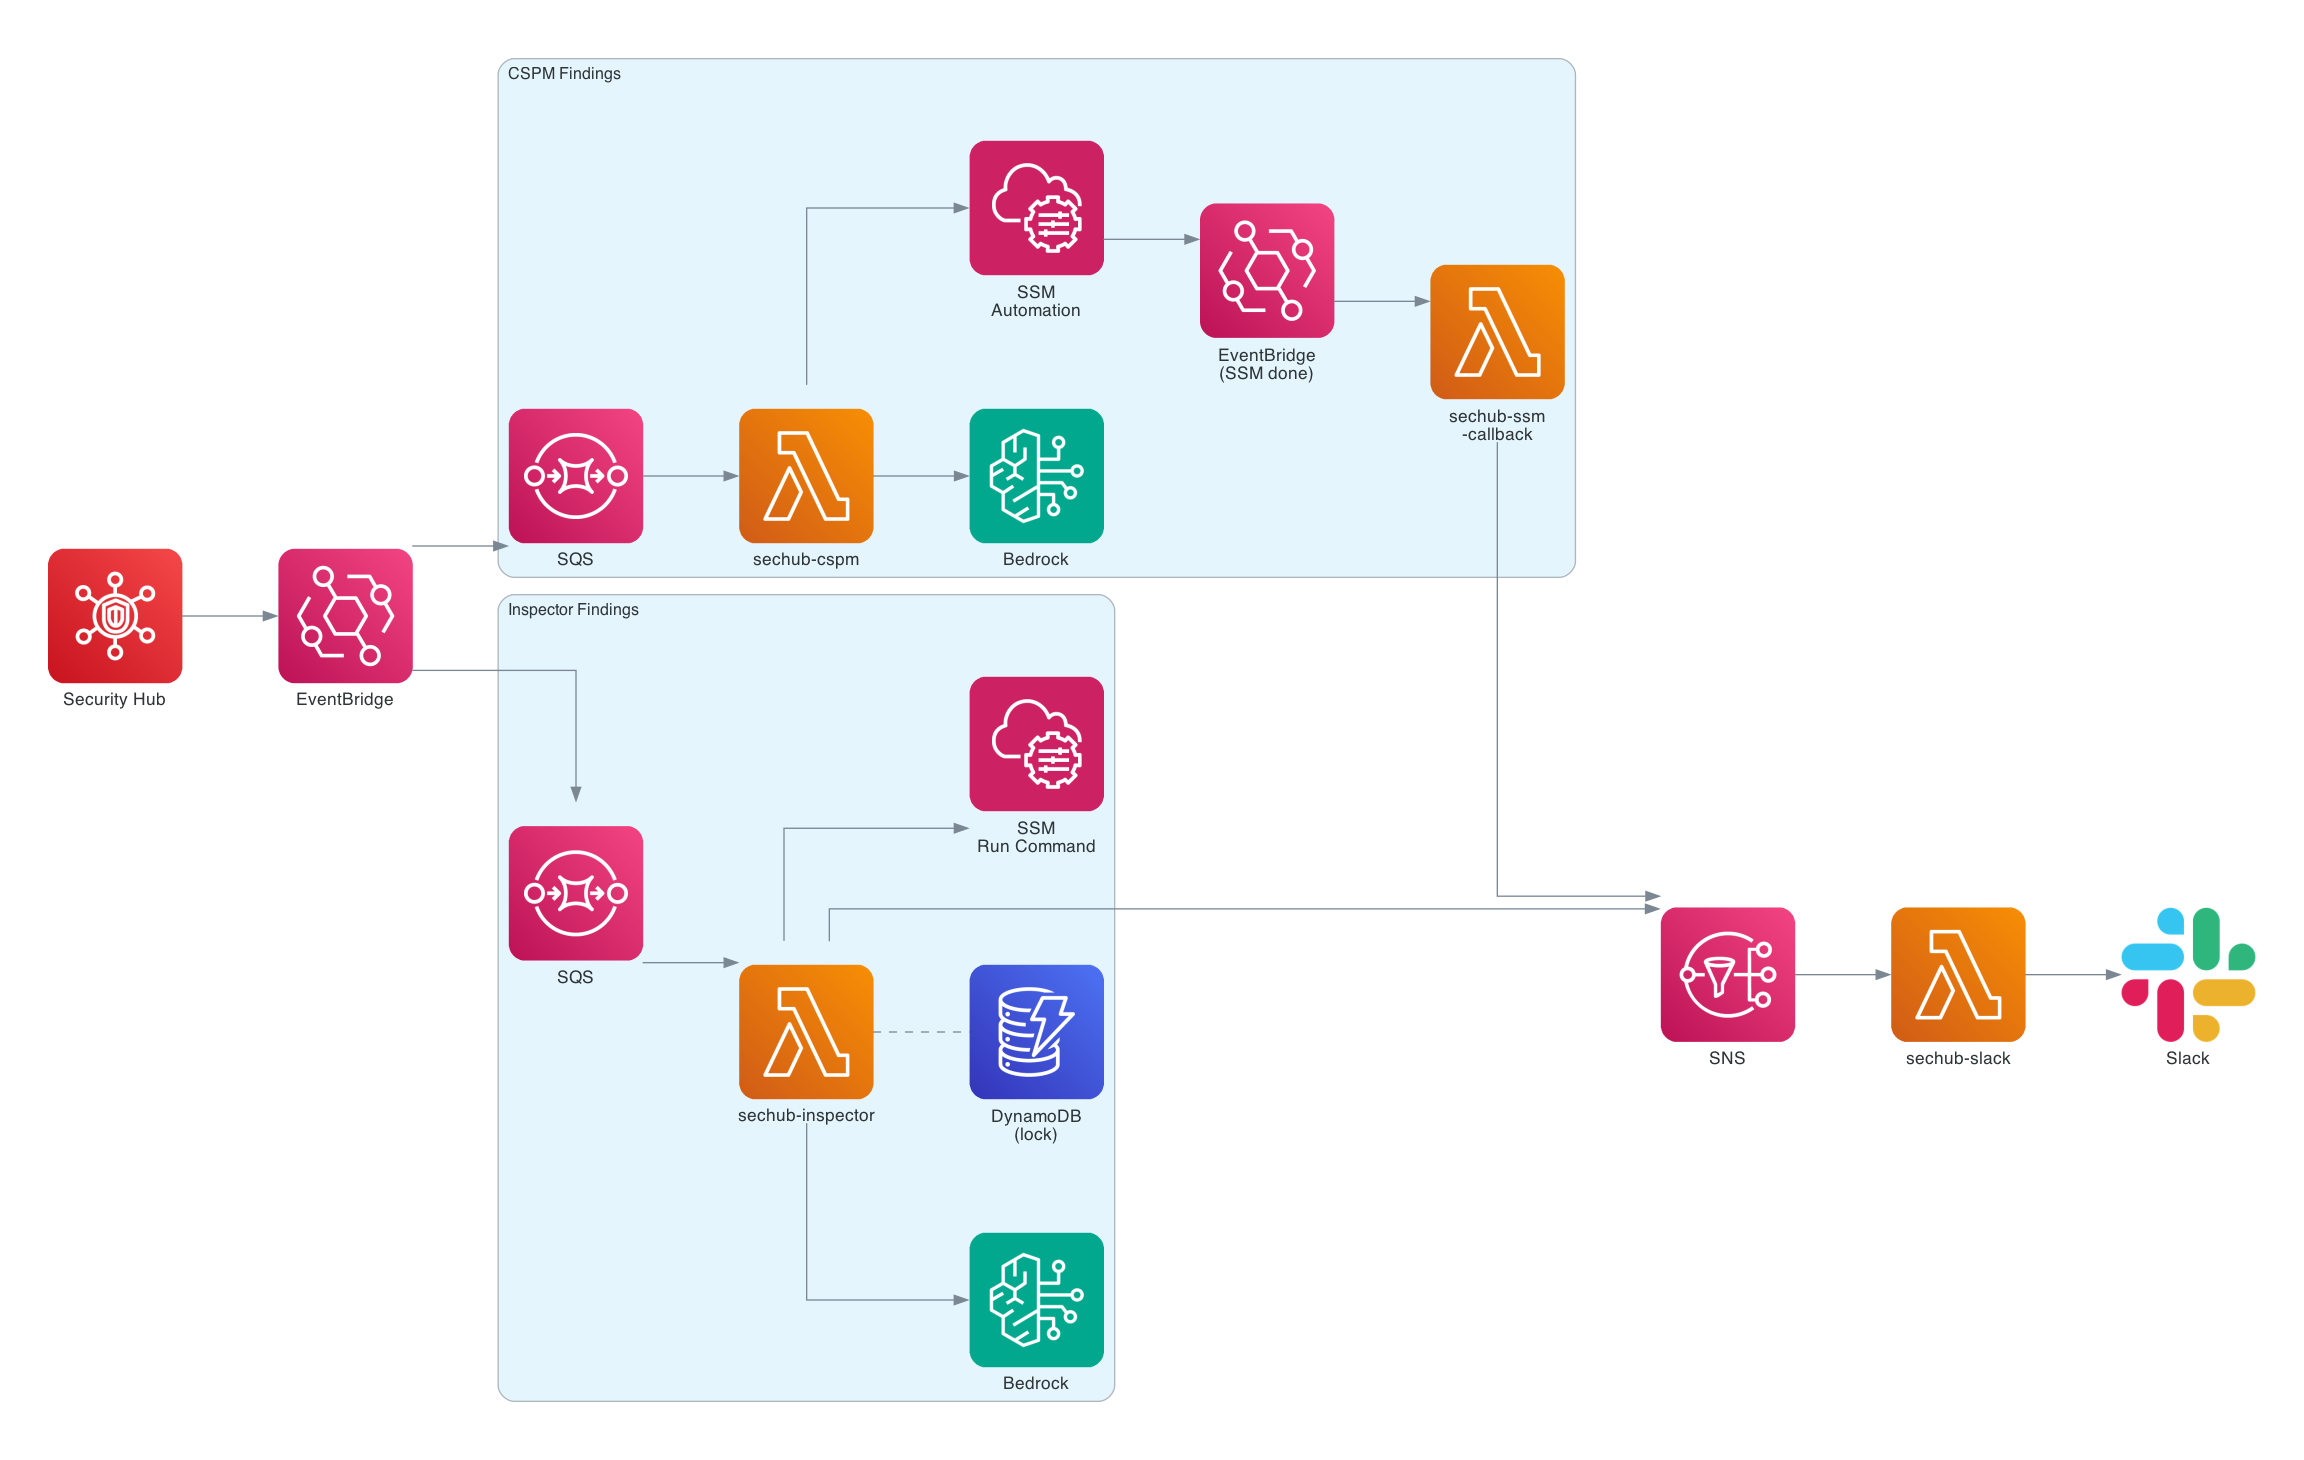
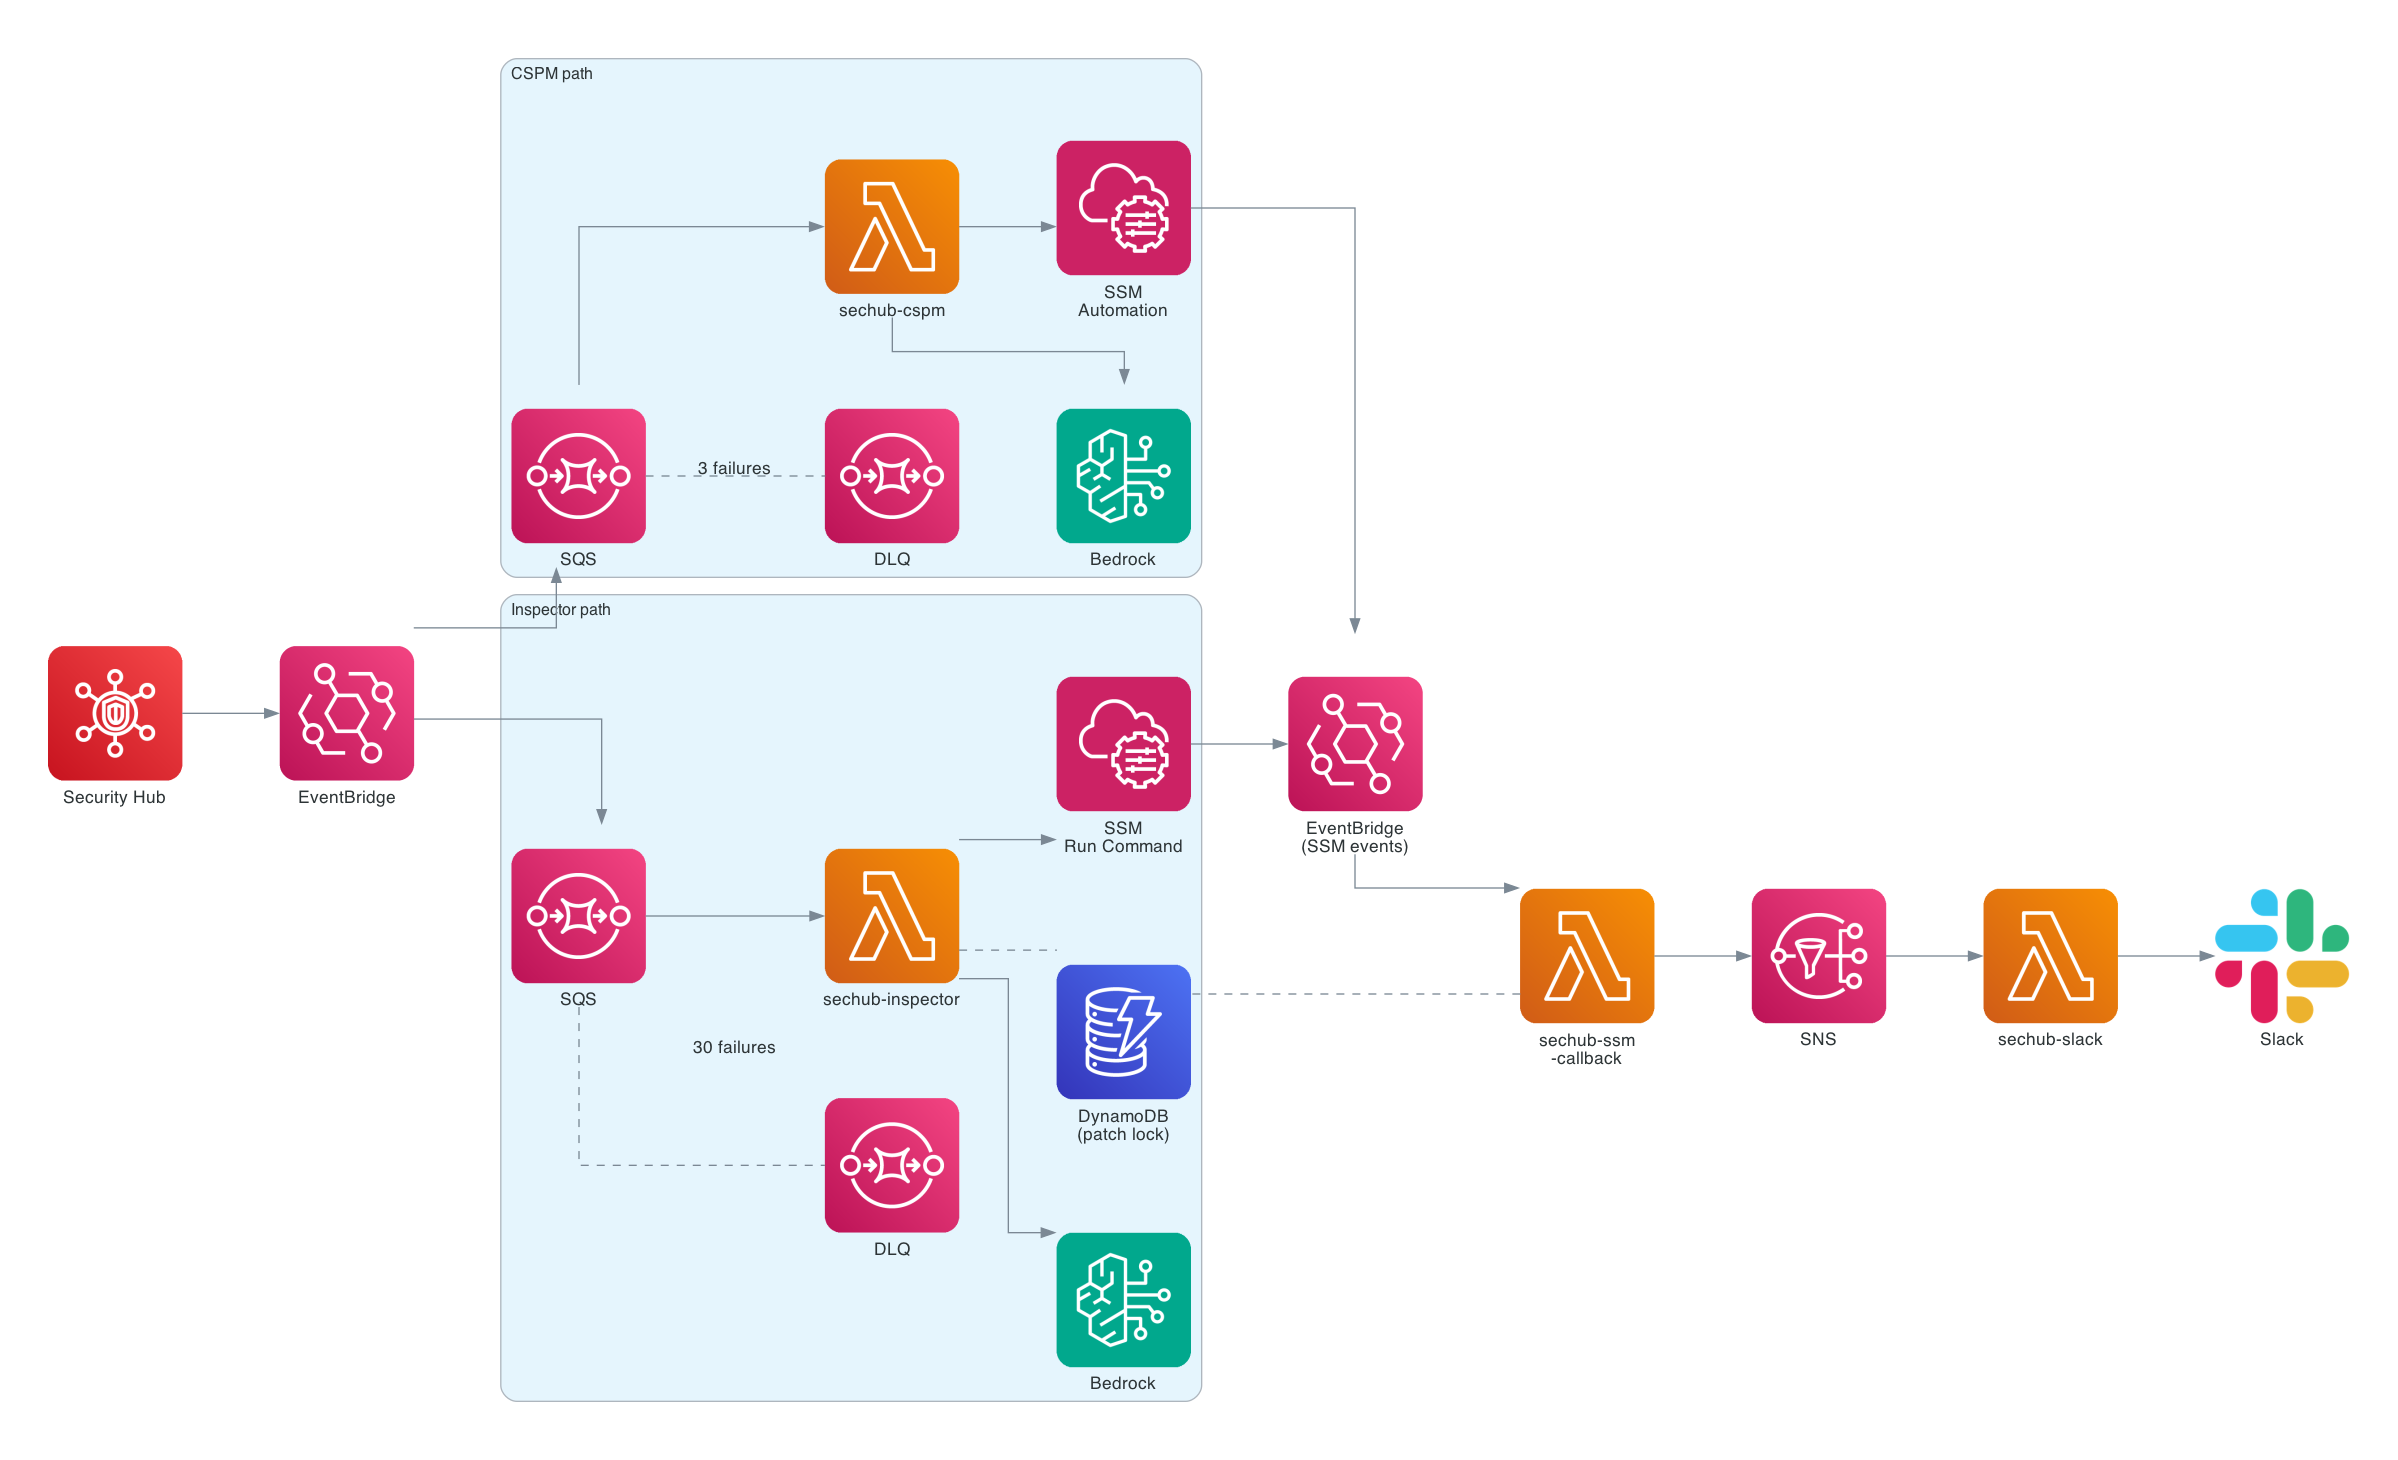
update architecture diagram

Changed region(s): [[0.0, 0.0308, 0.6875, 0.9555], [0.625, 0.5856, 1.0, 0.7397], [0.5312, 0.4623, 0.5938, 0.5856]]

diff --git a/docs/generate_diagram.py b/docs/generate_diagram.py
@@ -18,31 +18,41 @@ with Diagram(
     sechub = SecurityHub("Security Hub")
     eb = Eventbridge("EventBridge")
 
-    with Cluster("CSPM Findings"):
+    with Cluster("CSPM path"):
         sqs_cspm = SQS("SQS")
+        dlq_cspm = SQS("DLQ")
         cspm = Lambda("sechub-cspm")
         bedrock_cspm = Bedrock("Bedrock")
         ssm_auto = SystemsManager("SSM\nAutomation")
-        eb_ssm = Eventbridge("EventBridge\n(SSM done)")
-        callback = Lambda("sechub-ssm\n-callback")
 
-    with Cluster("Inspector Findings"):
+    with Cluster("Inspector path"):
         sqs_insp = SQS("SQS")
+        dlq_insp = SQS("DLQ")
         inspector = Lambda("sechub-inspector")
         bedrock_insp = Bedrock("Bedrock")
-        ddb = Dynamodb("DynamoDB\n(lock)")
+        ddb_lock = Dynamodb("DynamoDB\n(patch lock)")
         ssm_cmd = SystemsManager("SSM\nRun Command")
 
+    eb_ssm = Eventbridge("EventBridge\n(SSM events)")
+    callback = Lambda("sechub-ssm\n-callback")
     sns_topic = SNS("SNS")
     slack_fn = Lambda("sechub-slack")
     slack = Slack("Slack")
 
     # CSPM flow
     sechub >> eb >> sqs_cspm >> cspm >> bedrock_cspm
-    cspm >> ssm_auto >> eb_ssm >> callback >> sns_topic >> slack_fn >> slack
+    cspm >> ssm_auto
+    sqs_cspm - Edge(style="dashed", label="3 failures") - dlq_cspm
 
     # Inspector flow
     eb >> sqs_insp >> inspector >> bedrock_insp
     inspector >> ssm_cmd
-    inspector >> sns_topic
-    inspector - Edge(style="dashed") - ddb
+    inspector - Edge(style="dashed") - ddb_lock
+    sqs_insp - Edge(style="dashed", label="30 failures") - dlq_insp
+
+    # Callback (handles both SSM Automation and Run Command completions)
+    ssm_auto >> eb_ssm
+    ssm_cmd >> eb_ssm
+    eb_ssm >> callback
+    callback - Edge(style="dashed") - ddb_lock
+    callback >> sns_topic >> slack_fn >> slack
